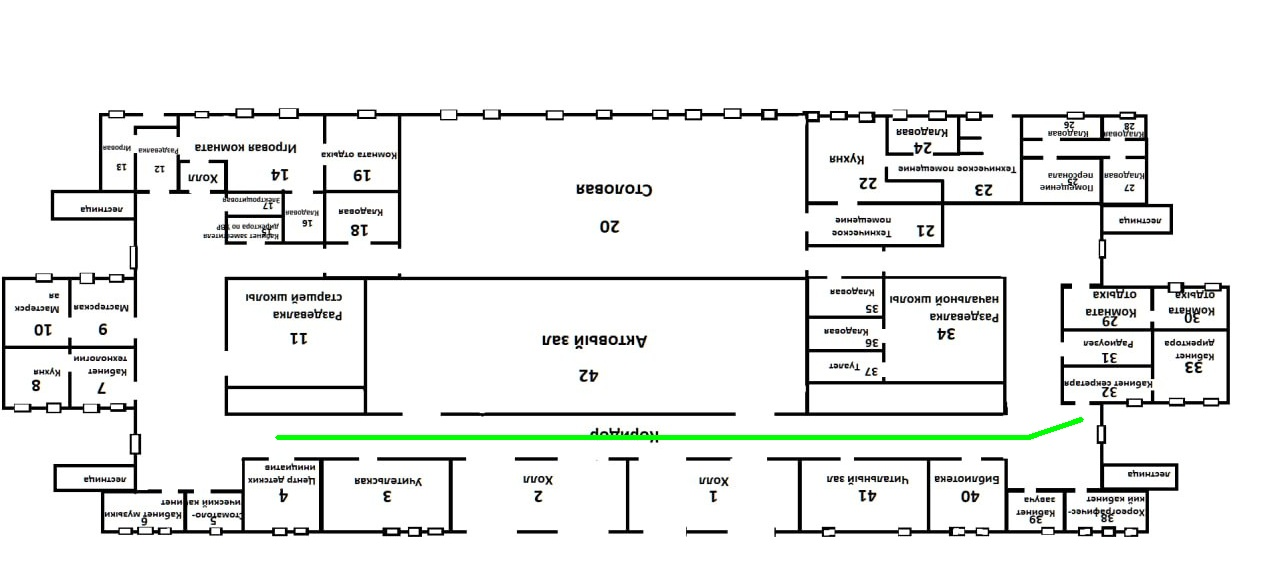
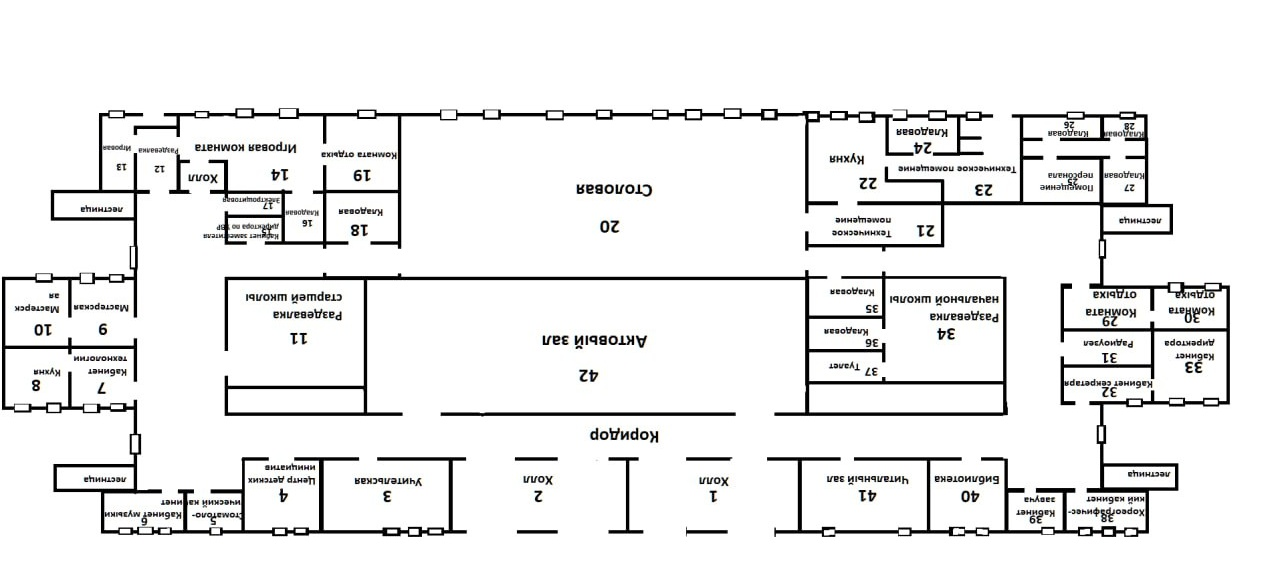
Update photo

Changed region(s): [[0.2188, 0.7385, 0.8125, 0.7692], [0.8125, 0.7077, 0.8438, 0.7385]]

diff --git a/server.py b/server.py
@@ -1,3 +1,6 @@
+# import sys
+# sys.path.append('egor@egor-laptop:~/Work/new_room_navigation')
+
 from flask import Flask, request, send_file, jsonify
 import json
 from main import main
@@ -36,12 +39,17 @@ def upload_file():
 
 @app.route('/photo1', methods=['GET'])
 def get_photo1():
-    return send_file(PHOTO_1_PATH, mimetype='image/jpeg')
+    s = send_file(PHOTO_1_PATH, mimetype='image/jpeg')
+    # os.remove(PHOTO_1_PATH)
+    return s
 
 @app.route('/photo2', methods=['GET'])
 def get_photo2():
     return send_file(PHOTO_2_PATH, mimetype='image/jpeg')
 
+# @app.route('/photo', methods=['GET'])
+# def get_photo():
+#     return send_file(PHOTO_PATH, mimetype='image/jpeg')
 
 if __name__ == '__main__':
     app.run(debug=True, port=5000)

diff --git a/test.py b/test.py
@@ -1,6 +1,10 @@
 import requests
 
-r = requests.post("http://127.0.0.1:5000/upload", json={"address": "school_3","start_room_name": "Кабинет директора","end_room_name": "Центр инифиатв"})
-hui = requests.get("http://127.0.0.1:5000/photo1")
+r = requests.post("http://127.0.0.1:/upload", json={"address": "school_3","start_room_name": "Кабинет директора","end_room_name": "Кабинет завуча"})
+hui = requests.get("http://62.113.103.41:35366/photo1")
 with open('hui.png', 'wb') as file:
     file.write(hui.content)
+
+    # school_3
+    # coordinates for red point
+    # room_name
